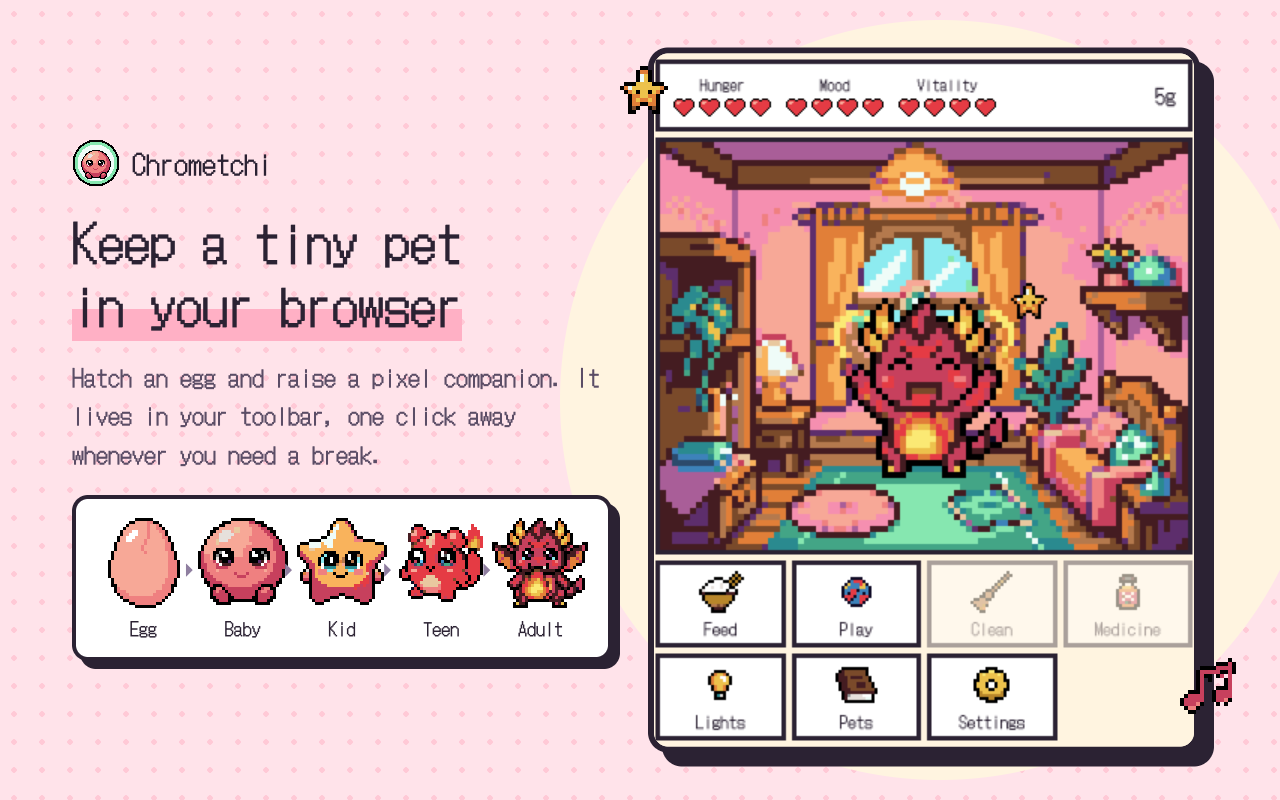
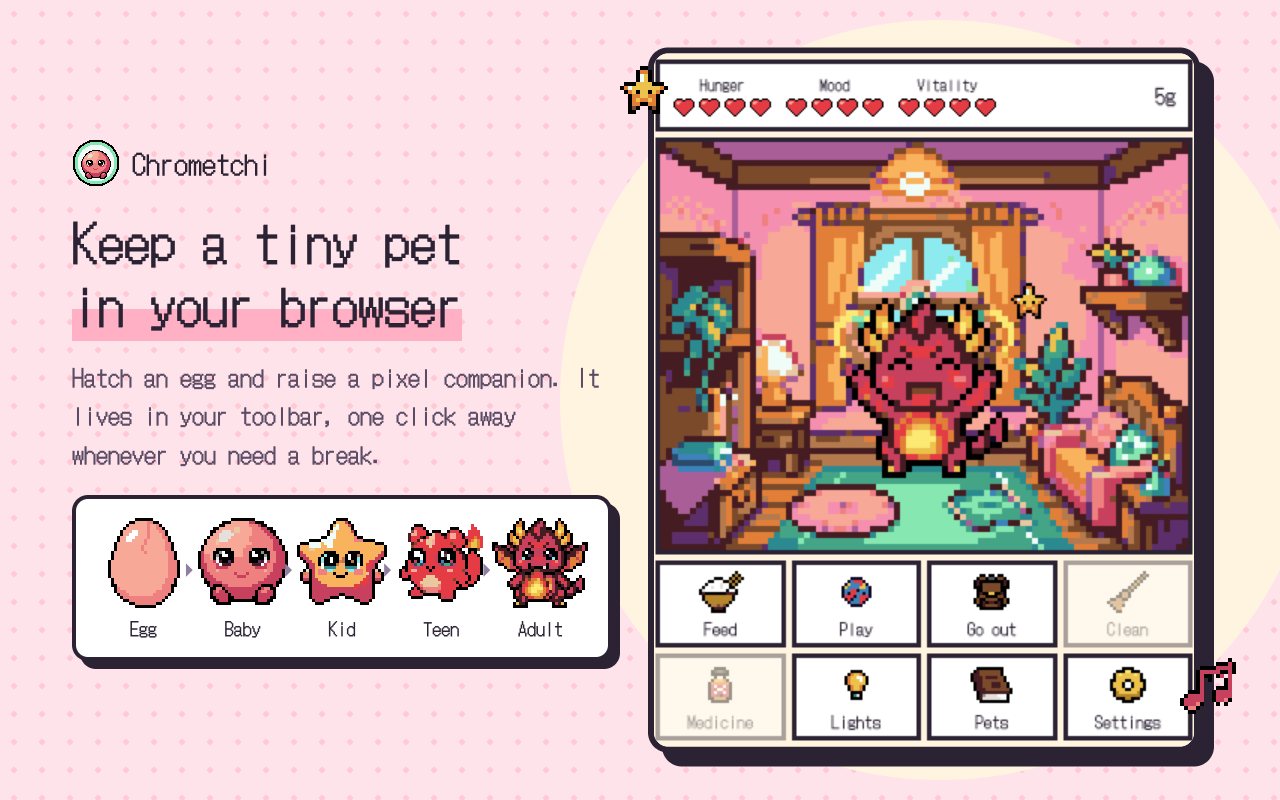
docs: describe outings and cooking, refresh the store screenshots

Changed region(s): [[0.7188, 0.6875, 0.9375, 0.9375], [0.5, 0.8125, 0.625, 0.9375], [0.6562, 0.8125, 0.6875, 0.9375]]

diff --git a/README.md b/README.md
@@ -15,10 +15,12 @@ Japanese versions are in [`screenshots/ja`](screenshots/ja).
 ## Features
 
 - **Branching evolution** across five stages. How you care for your pet decides what it becomes, and some forms are secret.
-- **Care**: meals and treats, mini-games (Catch, Cups, Stop), cleaning up, medicine, lights out, and petting.
+- **Care**: meals and treats, mini-games (Catch, Cups, Stop), cleaning up, medicine, lights out, and petting. Only rice and candy are free; everything else comes from the pantry.
+- **Outings**: fishing, hunting and gathering (three trips each a day) and a small farm fill the pantry.
+- **Cooking**: put up to four ingredients in the pot to discover 12 recipes; found recipes stay in the recipe book.
 - **Time only runs while Chrome is open.** Your pet sleeps at night (configurable) and needs the lights off.
 - **Warnings before death**: notifications and an in-popup banner tell you when life is in danger.
-- **Zukan**: a collection of every form you have discovered, plus memories of past pets.
+- **Zukan**: a collection of every form you have discovered, memories of past pets, and your recipe book.
 - **Walks on web pages** (optional): your pet strolls along the bottom of the pages you browse. Click it to hear how it is doing, drag it aside, or hide it on a site. Site access is asked for only when you turn this on.
 - English and Japanese, optional chiptune sound effects (off by default).
 
